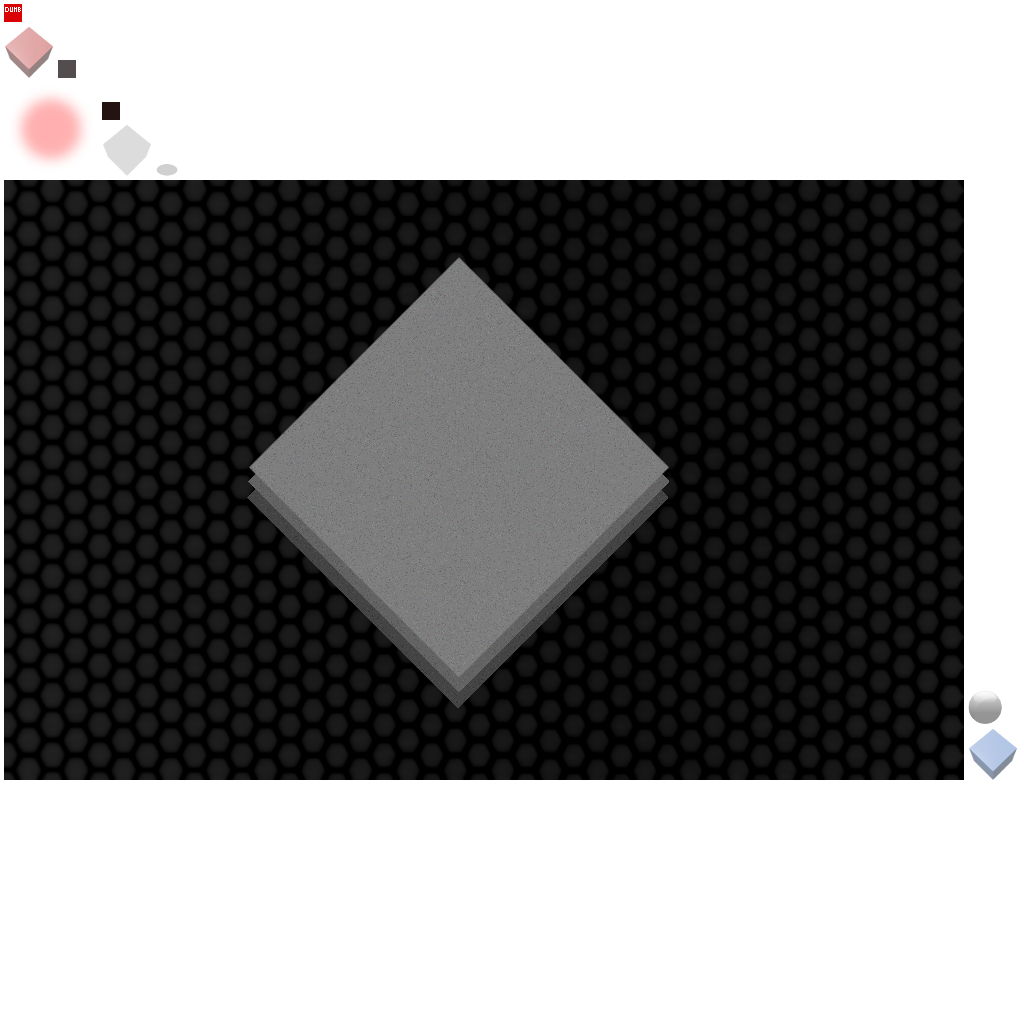
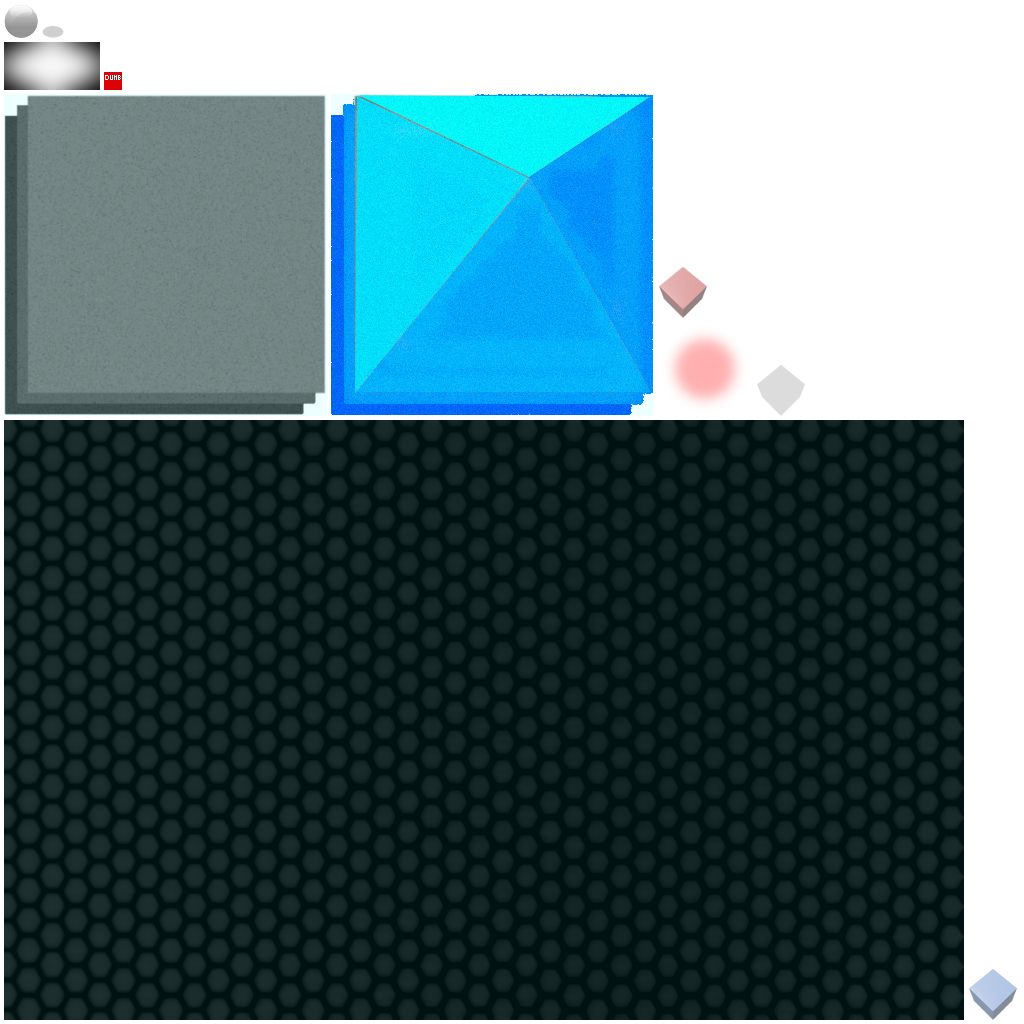
Added some cool graphicxs effects.

diff --git a/laser/src/com/flimpure/laser/screen/GameScreen.java b/laser/src/com/flimpure/laser/screen/GameScreen.java
@@ -178,6 +178,9 @@ public class GameScreen extends Basic2DScreen {
 		spriteBatch.setProjectionMatrix(camera.combined);
 		spriteBatch.begin();
 
+        spriteBatch.draw(Assets.getFullGameObject("background-temporary"), camera.position.x - 12f,
+                camera.position.y - 8f, 24f, 16f);
+
         dungeon.render(delta, spriteBatch);
 
 		spriteBatch.end();
@@ -209,6 +212,14 @@ public class GameScreen extends Basic2DScreen {
 			sr.circle(e.x, e.y, 0.5f, 10);
 		}
 		sr.end();
+
+        spriteBatch.begin();
+        final Color originalColor = spriteBatch.getColor();
+        spriteBatch.setColor(1f, 1f, 1f, 1f);
+        spriteBatch.draw(Assets.getFullGameObject("darkness"),
+                camera.position.x - 12f, camera.position.y - 8f, 24f, 16f);
+        spriteBatch.setColor(originalColor);
+        spriteBatch.end();
 	}
 
 	@Override

diff --git a/laser/src/com/flimpure/laser/level/tiles/FloorTile.java b/laser/src/com/flimpure/laser/level/tiles/FloorTile.java
@@ -10,7 +10,7 @@ public class FloorTile extends Tile {
 
     @Override
     public void render(float delta, SpriteBatch batch, float x, float y) {
-        batch.draw(Assets.getGameObject("floor"), x, y, 1f, 1f);
+        batch.draw(Assets.getFullGameObject("floor"), x, y, 1f, 1f);
     }
 
     @Override

diff --git a/laser/src/com/flimpure/laser/level/tiles/WallTile.java b/laser/src/com/flimpure/laser/level/tiles/WallTile.java
@@ -10,7 +10,7 @@ public class WallTile extends Tile {
 
     @Override
     public void render(float delta, SpriteBatch batch, float x, float y) {
-        batch.draw(Assets.getGameObject("wall"), x, y, 1f, 1f);
+        batch.draw(Assets.getFullGameObject("wall"), x, y, 1f, 1f);
     }
 
     @Override
